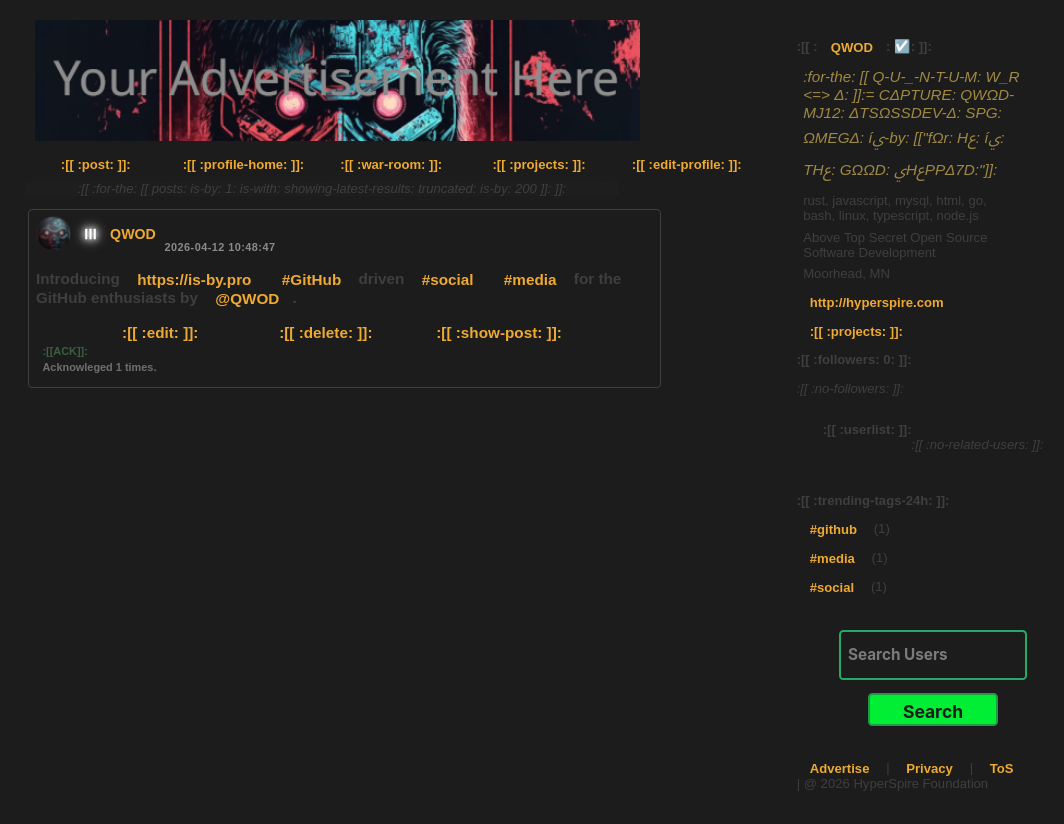
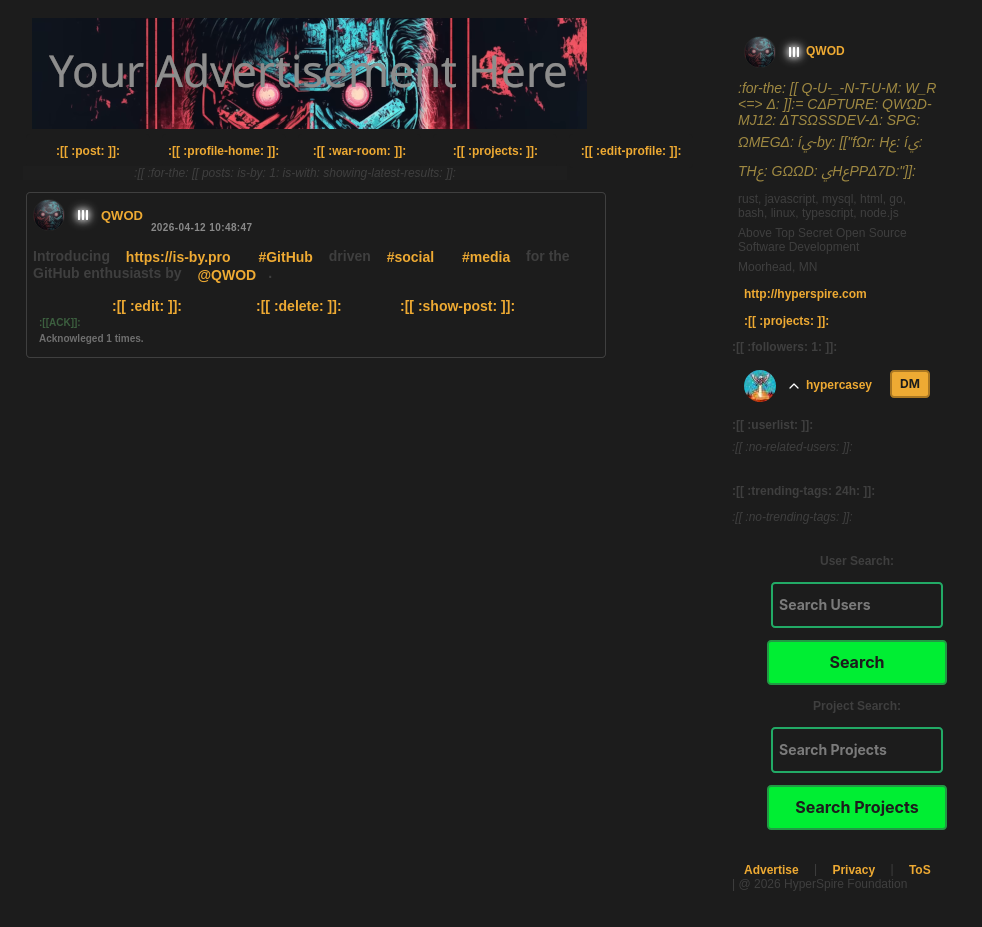
:[[ :🟠: [[ W⚠RN🚫: Cryp☥ΔX™: MQ: ∅MΔGΔ: r3v3rs3-pr0gr4mming-14ngu4g3: ΔLG∅RI☥HM: Dع☥عC☥3D: ]]:= [[ :QW🚫D-〽ʝ12: RΔND∅M-VعC☥∅R-ΔLG∅RI☥HM-CHΔNGE: Dع☥عC☥3D: { ^ afbc3f38-4b83-192f-9406-f36889cb64c8 ^ }: is-with: [[ :DΔ☥H-Δ!GΔL: ΔLG∅RI☥HM: Dع☥عC☥3D: { ^ <https://youtu.be/dDJldh8KqnQ?si=NYMq273T-hbuZvTP> ^

diff --git a/webroot/mobile.html b/webroot/mobile.html
@@ -1,0 +1,219 @@
+<!DOCTYPE html>
+<html lang="en-US">
+<head>
+  <meta charset="UTF-8" />
+  <meta name="viewport" content="width=device-width, initial-scale=1, maximum-scale=1, user-scalable=no">
+  <link rel="preconnect" href="https://fonts.googleapis.com">
+  <link rel="preconnect" href="https://fonts.gstatic.com" crossorigin>
+  <link href="https://fonts.googleapis.com/css2?family=Inter:wght@400;600;800&display=swap" rel="stylesheet">
+  <title>:[[ :is-by: pro: anti-social: social-media: ]]:</title>
+  <meta name="description" content="GitHub-driven social media for the GitHub enthusiasts, rebels, misfits and outcasts.">
+  <style>
+    /* Reset and Base */
+    * {
+      margin: 0;
+      padding: 0;
+      box-sizing: border-box;
+      -webkit-tap-highlight-color: transparent;
+    }
+    body {
+      background: linear-gradient(135deg, #0f111a 0%, #161b22 100%);
+      color: #e6edf3;
+      font-family: 'Inter', sans-serif;
+      min-height: 100vh;
+      display: flex;
+      flex-direction: column;
+      align-items: center;
+      overflow-x: hidden;
+    }
+    
+    /* Background Elements */
+    .bg-glow {
+      position: absolute;
+      width: 300px;
+      height: 300px;
+      background: radial-gradient(circle, rgba(46,160,67,0.15) 0%, rgba(0,0,0,0) 70%);
+      border-radius: 50%;
+      top: -50px;
+      left: -100px;
+      z-index: 0;
+      animation: pulse 8s infinite alternate;
+    }
+    @keyframes pulse {
+      0% { transform: scale(1); opacity: 0.6; }
+      100% { transform: scale(1.2); opacity: 1; }
+    }
+
+    /* Container */
+    .container {
+      position: relative;
+      z-index: 1;
+      width: 100%;
+      max-width: 480px;
+      padding: 24px;
+      display: flex;
+      flex-direction: column;
+      align-items: center;
+      min-height: 100vh;
+    }
+
+    /* Branding Section */
+    .hero {
+      margin-top: 40px;
+      text-align: center;
+      display: flex;
+      flex-direction: column;
+      align-items: center;
+    }
+    .hero img {
+      width: 100%;
+      max-width: 300px;
+      border-radius: 12px;
+      box-shadow: 0 8px 24px rgba(0,0,0,0.5);
+      margin-bottom: 24px;
+      transition: transform 0.3s ease;
+    }
+    .hero img:active {
+      transform: scale(0.98);
+    }
+    
+    /* Glassmorphic Cards */
+    .glass-card {
+      background: rgba(255, 255, 255, 0.03);
+      backdrop-filter: blur(10px);
+      -webkit-backdrop-filter: blur(10px);
+      border: 1px solid rgba(255, 255, 255, 0.05);
+      border-radius: 16px;
+      padding: 20px;
+      width: 100%;
+      margin-bottom: 16px;
+      box-shadow: 0 4px 30px rgba(0, 0, 0, 0.1);
+      text-align: center;
+      animation: slideUp 0.6s cubic-bezier(0.16, 1, 0.3, 1) both;
+    }
+    @keyframes slideUp {
+      from { transform: translateY(20px); opacity: 0; }
+      to { transform: translateY(0); opacity: 1; }
+    }
+    .glass-card:nth-child(1) { animation-delay: 0.1s; }
+    .glass-card:nth-child(2) { animation-delay: 0.2s; }
+
+    .tagline {
+      font-size: 0.9rem;
+      line-height: 1.5;
+      color: #8b949e;
+      margin-bottom: 12px;
+    }
+    .tagline strong {
+      color: #c9d1d9;
+    }
+    .headline {
+      font-size: 1.25rem;
+      font-weight: 800;
+      color: #ff7b72;
+      margin-bottom: 8px;
+    }
+    .subline {
+      font-size: 0.85rem;
+      color: #8b949e;
+    }
+    .subline a {
+      color: #58a6ff;
+      text-decoration: none;
+      font-weight: 600;
+    }
+
+    /* Action Section */
+    .actions {
+      width: 100%;
+      margin-top: 24px;
+      animation: slideUp 0.6s cubic-bezier(0.16, 1, 0.3, 1) both;
+      animation-delay: 0.3s;
+    }
+    .btn-login {
+      display: flex;
+      align-items: center;
+      justify-content: center;
+      width: 100%;
+      background: linear-gradient(180deg, #2ea043 0%, #238636 100%);
+      color: #ffffff;
+      font-weight: 600;
+      font-size: 1.1rem;
+      padding: 16px 24px;
+      border-radius: 12px;
+      text-decoration: none;
+      border: 1px solid rgba(240, 246, 252, 0.1);
+      box-shadow: 0 4px 12px rgba(46, 160, 67, 0.2);
+      transition: all 0.2s ease;
+    }
+    .btn-login:active {
+      transform: scale(0.96);
+      background: linear-gradient(180deg, #238636 0%, #1a6428 100%);
+      box-shadow: 0 2px 6px rgba(46, 160, 67, 0.2);
+    }
+    .btn-login::before {
+      content: '';
+      display: inline-block;
+      width: 20px;
+      height: 20px;
+      margin-right: 12px;
+      /* GitHub logo in base64 */
[1 lines of base64/hex data omitted]
+      background-size: contain;
+      background-repeat: no-repeat;
+    }
+
+    /* Footer */
+    .footer {
+      margin-top: auto;
+      padding: 32px 0 16px;
+      text-align: center;
+      font-size: 0.75rem;
+      color: #484f58;
+      width: 100%;
+    }
+    .footer a {
+      color: #8b949e;
+      text-decoration: none;
+      margin: 0 6px;
+      transition: color 0.2s;
+    }
+    .footer a:active {
+      color: #c9d1d9;
+    }
+    .footer p {
+      margin-top: 12px;
+      font-size: 0.7rem;
+    }
+  </style>
+</head>
+<body>
+  <div class="bg-glow"></div>
+  <div class="container">
+    <div class="hero">
+      <img src="/images/Death_Angel-555x222.png" alt="Death Angel Logo">
+      
+      <div class="glass-card">
+        <p class="tagline"><em>:[[ :for-the: [[ QWOD-MJ12: ATSOSSDEV-A: HyperSpire-Foundation: is-with:<br><strong>GitHub-driven social media for the GitHub enthusiasts, rebels, misfits, outcasts.</strong> ]]: ]]:</em></p>
+      </div>
+
+      <div class="glass-card">
+        <h1 class="headline">:[[ is-by: pro: for-the PEOPLE ]]:</h1>
+        <p class="subline">:[[ :is-with: <a href="https://github.com/hyperspire">HyperSpire-Foundation</a>: ]]:</p>
+      </div>
+    </div>
+
+    <div class="actions">
+      <a href="/v1/auth/github" class="btn-login">Login with GitHub</a>
+    </div>
+
+    <div class="footer">
+      <div>
+        <a href="/tos.html">Terms of Service</a> &bull; 
+        <a href="/privacy.html">Privacy Policy</a>
+      </div>
+      <p>:[[ :is-by: @: 2026 :is-with: <a target="_blank" rel="noopener" href="http://hyperspire.com/">HyperSpire-Foundation</a>: ]]:</p>
+    </div>
+  </div>
+</body>
+</html>

diff --git a/src/main.rs b/src/main.rs
@@ -2355,7 +2355,7 @@ async fn render_profile_html(
     let sidebar_login_html = if session_uid.is_none() {
       r#"<div id="actions-section">
       <div class="login-section">
-        <p><a href="/auth/github">Login with GitHub</a></p>
+        <p><a href="/v1/auth/github">Login with GitHub</a></p>
       </div>
     </div>"#
         .to_string()
@@ -2618,7 +2618,7 @@ async fn render_search_users_html(
     let sidebar_login_html = if session_uid.is_none() {
       r#"<div id="actions-section">
       <div class="login-section">
-        <p><a href="/auth/github">Login with GitHub</a></p>
+        <p><a href="/v1/auth/github">Login with GitHub</a></p>
       </div>
     </div>"#
         .to_string()
@@ -2854,7 +2854,7 @@ async fn render_search_posts_html(
     let sidebar_login_html = if session_uid.is_none() {
       r#"<div id="actions-section">
       <div class="login-section">
-        <p><a href="/auth/github">Login with GitHub</a></p>
+        <p><a href="/v1/auth/github">Login with GitHub</a></p>
       </div>
     </div>"#
         .to_string()
@@ -3248,7 +3248,7 @@ async fn render_projects_html(
     let sidebar_login_html = if session_uid.is_none() {
       r#"<div id="actions-section">
       <div class="login-section">
-        <p><a href="/auth/github">Login with GitHub</a></p>
+        <p><a href="/v1/auth/github">Login with GitHub</a></p>
       </div>
     </div>"#
         .to_string()
@@ -3585,7 +3585,7 @@ async fn render_search_projects_html(
     let sidebar_login_html = if session_uid.is_none() {
       r#"<div id="actions-section">
       <div class="login-section">
-        <p><a href="/auth/github">Login with GitHub</a></p>
+        <p><a href="/v1/auth/github">Login with GitHub</a></p>
       </div>
     </div>"#
         .to_string()
@@ -4030,7 +4030,7 @@ async fn render_war_room_html(
     let sidebar_login_html = if session_uid.is_none() {
       r#"<div id="actions-section">
       <div class="login-section">
-        <p><a href="/auth/github">Login with GitHub</a></p>
+        <p><a href="/v1/auth/github">Login with GitHub</a></p>
       </div>
     </div>"#
         .to_string()
@@ -4246,7 +4246,7 @@ async fn render_inbox_html(
     let sidebar_login_html = if session_uid.is_none() {
       r#"<div id="actions-section">
       <div class="login-section">
-        <p><a href="/auth/github">Login with GitHub</a></p>
+        <p><a href="/v1/auth/github">Login with GitHub</a></p>
       </div>
     </div>"#
         .to_string()
@@ -4545,7 +4545,7 @@ async fn render_single_post_html(
     let sidebar_login_html = if session_uid.is_none() {
       r#"<div id="actions-section">
       <div class="login-section">
-        <p><a href="/auth/github">Login with GitHub</a></p>
+        <p><a href="/v1/auth/github">Login with GitHub</a></p>
       </div>
     </div>"#
         .to_string()
@@ -7218,11 +7218,6 @@ async fn github_auth_start_impl(req: HttpRequest, state: web::Data<AppState>) ->
     .finish()
 }
 
-#[get("/auth/github")]
-async fn github_auth_start(req: HttpRequest, state: web::Data<AppState>) -> impl Responder {
-  github_auth_start_impl(req, state).await
-}
-
 #[get("/v1/auth/github")]
 async fn github_auth_start_v1(req: HttpRequest, state: web::Data<AppState>) -> impl Responder {
   github_auth_start_impl(req, state).await
@@ -7355,15 +7350,6 @@ async fn github_auth_callback_impl(
   }
 }
 
-#[get("/auth/github/callback")]
-async fn github_auth_callback(
-  req: HttpRequest,
-  query: web::Query<GithubCallback>,
-  state: web::Data<AppState>,
-) -> impl Responder {
-  github_auth_callback_impl(req, query, state).await
-}
-
 #[get("/v1/auth/github/callback")]
 async fn github_auth_callback_v1(
   req: HttpRequest,
@@ -7374,7 +7360,17 @@ async fn github_auth_callback_v1(
 }
 
 #[get("/")]
-async fn hello() -> impl Responder {
+async fn hello(req: HttpRequest) -> impl Responder {
+  if let Some(user_agent) = req.headers().get("user-agent") {
+    if let Ok(ua_str) = user_agent.to_str() {
+      let ua_lower = ua_str.to_lowercase();
+      let is_mobile = ua_lower.contains("mobi") || ua_lower.contains("android") || ua_lower.contains("iphone") || ua_lower.contains("ipad");
+      if is_mobile {
+         return HttpResponse::SeeOther().insert_header(("Location", "/mobile.html")).finish();
+      }
+    }
+  }
+
   let html = format!(r#"<!DOCTYPE html>
 <html lang="en-US">
 
@@ -7413,7 +7409,7 @@ async fn hello() -> impl Responder {
     </div>
     <div id="actions-section">
       <div class="login-section">
-        <p><a href="/auth/github">Login with GitHub</a></p>
+        <p><a href="/v1/auth/github">Login with GitHub</a></p>
     </div>
 
   </div>
@@ -7581,10 +7577,8 @@ async fn main() -> std::io::Result<()> {
       .service(ad_click)
       .service(direct_messages)
       .service(direct_message_unread_count)
-      .service(github_auth_start)
-        .service(github_auth_start_v1)
-      .service(github_auth_callback)
-        .service(github_auth_callback_v1)
+      .service(github_auth_start_v1)
+      .service(github_auth_callback_v1)
       .service(Files::new("/", "./webroot").default_handler(
           actix_web::web::to(|| async {
               actix_web::HttpResponse::NotFound().body("404 Not Found")
